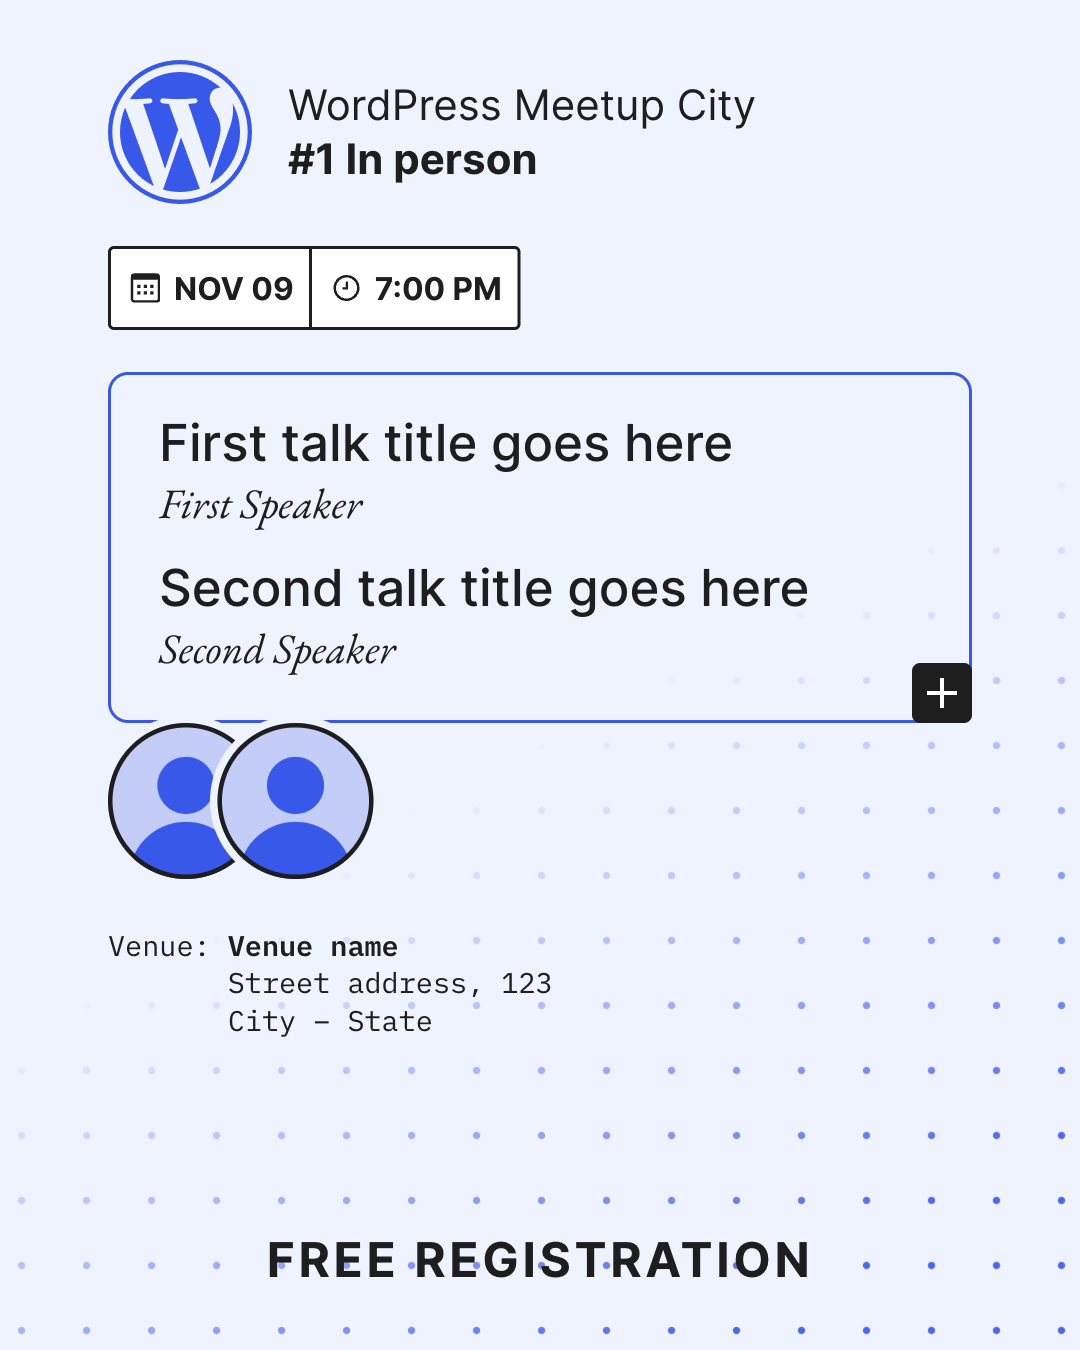
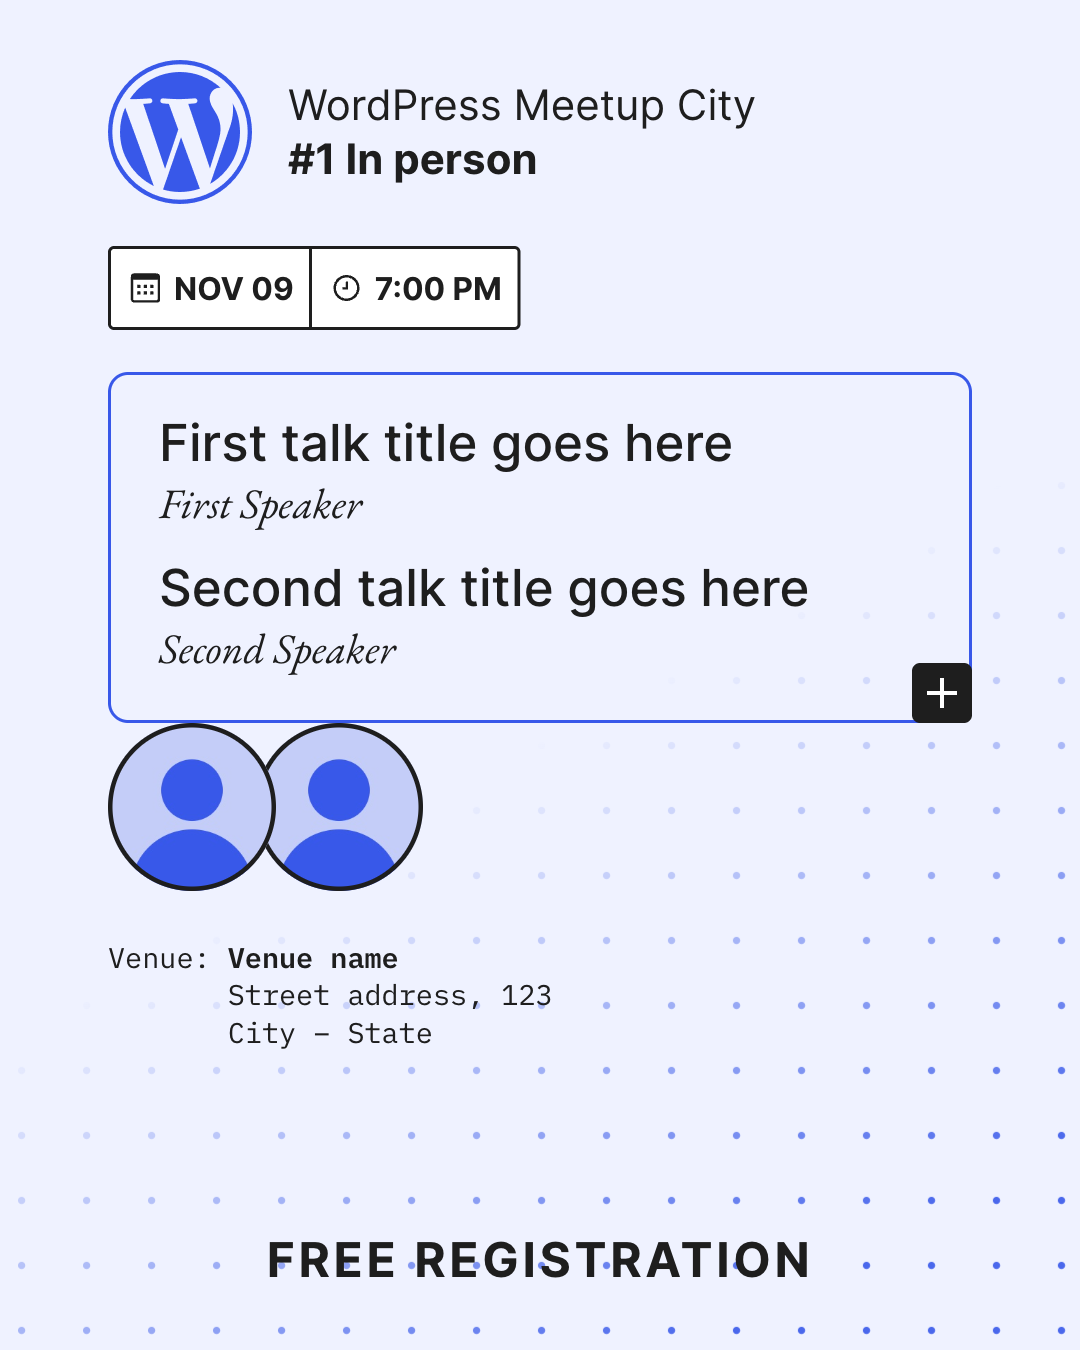
Two speakers: 120px photos, each 1/8 over the next with the first on top (Figma 'Text serif + Guests'); tighter talks so the piece stays 720px

Changed region(s): [[0.0917, 0.5289, 0.4278, 0.7778], [0.4583, 0.7156, 0.5194, 0.7467]]

diff --git a/meetup-thumbnail-generator/assets/style.css b/meetup-thumbnail-generator/assets/style.css
@@ -231,15 +231,15 @@ body:has(.mtg-thumb-page) .wp-site-blocks {
 }
 
 /* Two talks: each title with its speaker in the box, one above the other
-   (clear of the inserter on the right), and the two photos partly
-   overlapping below, the second one over the first with a ring in the
-   background color. */
+   (clear of the inserter on the right), and the photos below in a row,
+   each one 1/8 over the next and the first on top, as in the Figma
+   "Text serif + Guests" thumbnail (120px photos 105px apart). */
 .mtg-thumb .mtg-talks {
 	display: flex;
 	flex-direction: column;
 	grid-area: 1 / 1;
-	gap: clamp(.75rem, 1.5625vw, 1.25rem);
-	padding: clamp(.5rem, 1.25vw, 1rem) clamp(2rem, 4.6875vw, 3.75rem) 0 clamp(.25rem, .625vw, .5rem);
+	gap: clamp(.5rem, .9375vw, .75rem);
+	padding: clamp(.375rem, .78125vw, .625rem) clamp(2rem, 4.6875vw, 3.75rem) 0 clamp(.25rem, .625vw, .5rem);
 }
 
 .mtg-thumb .mtg-talk {
@@ -249,7 +249,7 @@ body:has(.mtg-thumb-page) .wp-site-blocks {
 }
 
 .mtg-thumb .mtg-talk-title {
-	font: 500 clamp(1.25rem, 3.4375vw, 2.75rem)/1.2 "MTG Inter", sans-serif;
+	font: 500 clamp(1.25rem, 3.4375vw, 2.75rem)/1.15 "MTG Inter", sans-serif;
 	letter-spacing: normal;
 	color: inherit;
 }
@@ -260,19 +260,30 @@ body:has(.mtg-thumb-page) .wp-site-blocks {
 }
 
 .mtg-thumb .mtg-avatars {
-	--size: clamp(3.5rem, 8.125vw, 104px);
+	--size: clamp(4rem, 9.375vw, 7.5rem);
 	display: flex;
 	align-items: center;
+}
+
+.mtg-thumb .mtg-avatars .mtg-avatar {
+	position: relative;
+}
+
+.mtg-thumb .mtg-avatars .mtg-avatar:nth-child(1) {
+	z-index: 3;
+}
+
+.mtg-thumb .mtg-avatars .mtg-avatar:nth-child(2) {
+	z-index: 2;
 }
 
 .mtg-thumb .mtg-avatars .mtg-avatar img {
 	width: var(--size);
 	height: var(--size);
-	box-shadow: 0 0 0 clamp(3px, .46875vw, 6px) #eff2ff;
 }
 
 .mtg-thumb .mtg-avatars .mtg-avatar + .mtg-avatar {
-	margin-left: calc(-.3 * var(--size));
+	margin-left: calc(-.125 * var(--size));
 }
 
 /* "Local: " then the address lines under the name (hanging indent of 7
@@ -463,12 +474,8 @@ body:has(.mtg-thumb-page) .wp-site-blocks {
 	}
 
 	.mtg-thumb .mtg-avatars {
-		--size: calc(52 * var(--u));
+		--size: calc(56 * var(--u));
 		gap: 0;
-	}
-
-	.mtg-thumb .mtg-avatars .mtg-avatar img {
-		box-shadow: 0 0 0 calc(2.5 * var(--u)) #eff2ff;
 	}
 
 	.mtg-thumb .mtg-talks {
